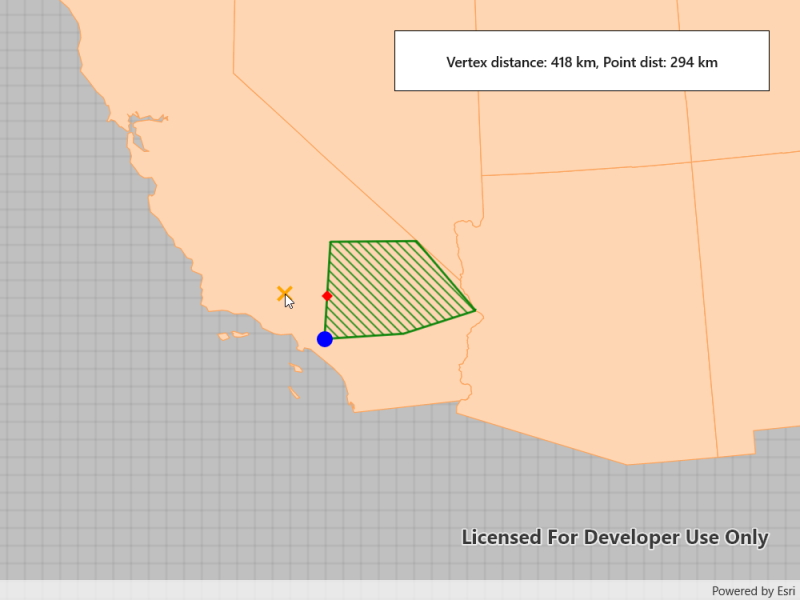
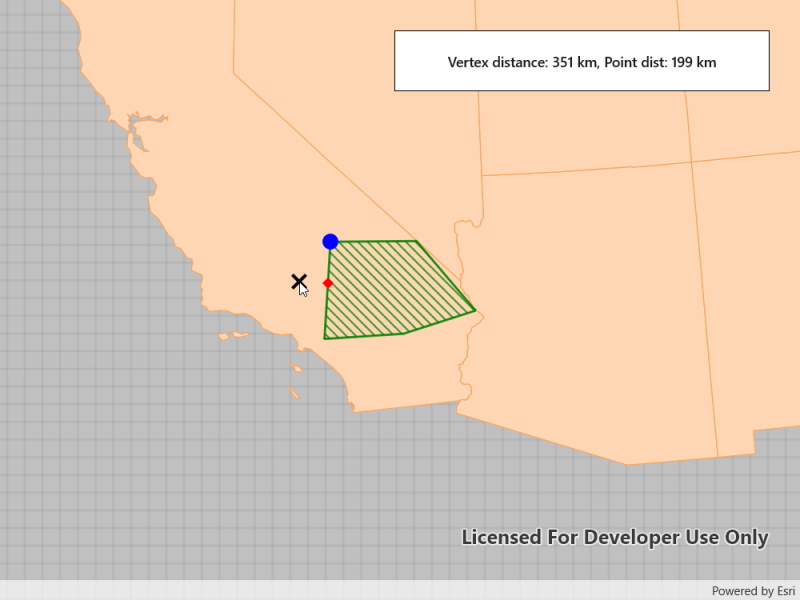
Updated tapped cross and screenshots

diff --git a/src/WinUI/ArcGISRuntime.WinUI.Viewer/Samples/Geometry/NearestVertex/NearestVertex.xaml.cs b/src/WinUI/ArcGISRuntime.WinUI.Viewer/Samples/Geometry/NearestVertex/NearestVertex.xaml.cs
@@ -84,7 +84,7 @@ namespace ArcGISRuntime.WinUI.Samples.NearestVertex
             _graphicsOverlay.Graphics.Add(_polygonGraphic);
 
             // Create the graphics and symbology for the tapped point, the nearest vertex, and the nearest coordinate.
-            SimpleMarkerSymbol tappedLocationSymbol = new SimpleMarkerSymbol(SimpleMarkerSymbolStyle.X, System.Drawing.Color.Orange, 15);
+            SimpleMarkerSymbol tappedLocationSymbol = new SimpleMarkerSymbol(SimpleMarkerSymbolStyle.X, System.Drawing.Color.Black, 15);
             SimpleMarkerSymbol nearestCoordinateSymbol = new SimpleMarkerSymbol(SimpleMarkerSymbolStyle.Diamond, System.Drawing.Color.Red, 10);
             SimpleMarkerSymbol nearestVertexSymbol = new SimpleMarkerSymbol(SimpleMarkerSymbolStyle.Circle, System.Drawing.Color.Blue, 15);
             _nearestCoordinateGraphic = new Graphic { Symbol = nearestCoordinateSymbol };

diff --git a/src/WPF/ArcGISRuntime.WPF.Viewer/Samples/Geometry/NearestVertex/NearestVertex.xaml.cs b/src/WPF/ArcGISRuntime.WPF.Viewer/Samples/Geometry/NearestVertex/NearestVertex.xaml.cs
@@ -85,7 +85,7 @@ namespace ArcGISRuntime.WPF.Samples.NearestVertex
             _graphicsOverlay.Graphics.Add(_polygonGraphic);
 
             // Create the graphics and symbology for the tapped point, the nearest vertex, and the nearest coordinate.
-            SimpleMarkerSymbol tappedLocationSymbol = new SimpleMarkerSymbol(SimpleMarkerSymbolStyle.X, System.Drawing.Color.Orange, 15);
+            SimpleMarkerSymbol tappedLocationSymbol = new SimpleMarkerSymbol(SimpleMarkerSymbolStyle.X, System.Drawing.Color.Black, 15);
             SimpleMarkerSymbol nearestCoordinateSymbol = new SimpleMarkerSymbol(SimpleMarkerSymbolStyle.Diamond, System.Drawing.Color.Red, 10);
             SimpleMarkerSymbol nearestVertexSymbol = new SimpleMarkerSymbol(SimpleMarkerSymbolStyle.Circle, System.Drawing.Color.Blue, 15);
             _nearestCoordinateGraphic = new Graphic { Symbol = nearestCoordinateSymbol };

diff --git a/src/Forms/Shared/Samples/Geometry/NearestVertex/NearestVertex.xaml.cs b/src/Forms/Shared/Samples/Geometry/NearestVertex/NearestVertex.xaml.cs
@@ -83,7 +83,7 @@ namespace ArcGISRuntime.Samples.NearestVertex
             _graphicsOverlay.Graphics.Add(_polygonGraphic);
 
             // Create the graphics and symbology for the tapped point, the nearest vertex, and the nearest coordinate.
-            SimpleMarkerSymbol tappedLocationSymbol = new SimpleMarkerSymbol(SimpleMarkerSymbolStyle.X, Colors.Orange, 15);
+            SimpleMarkerSymbol tappedLocationSymbol = new SimpleMarkerSymbol(SimpleMarkerSymbolStyle.X, Colors.Black, 15);
             SimpleMarkerSymbol nearestCoordinateSymbol = new SimpleMarkerSymbol(SimpleMarkerSymbolStyle.Diamond, Colors.Red, 10);
             SimpleMarkerSymbol nearestVertexSymbol = new SimpleMarkerSymbol(SimpleMarkerSymbolStyle.Circle, Colors.Blue, 15);
             _nearestCoordinateGraphic = new Graphic { Symbol = nearestCoordinateSymbol };
